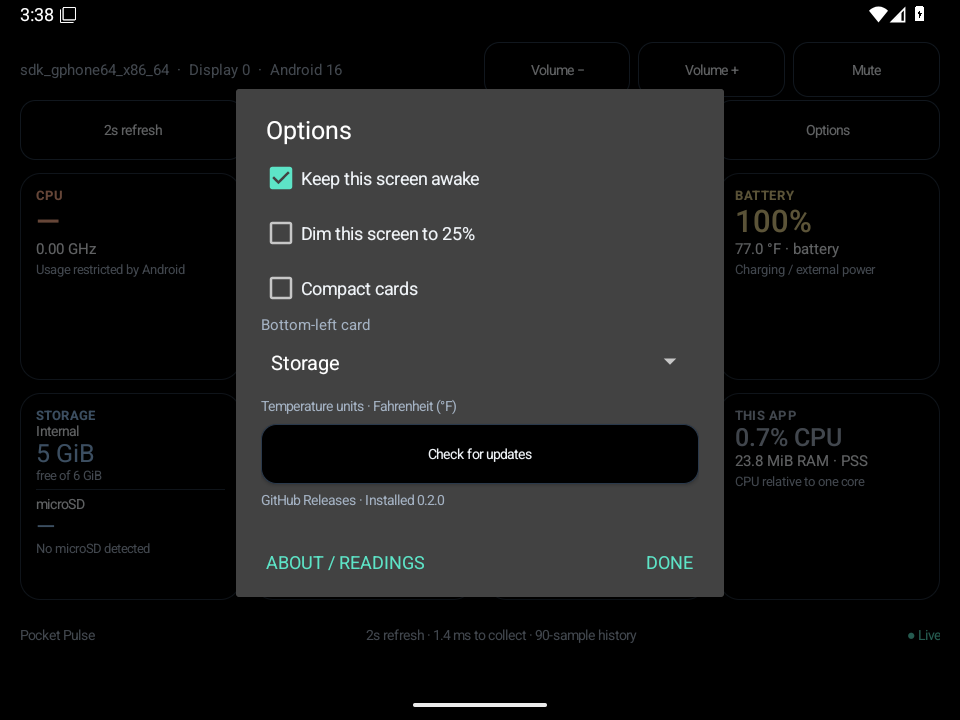
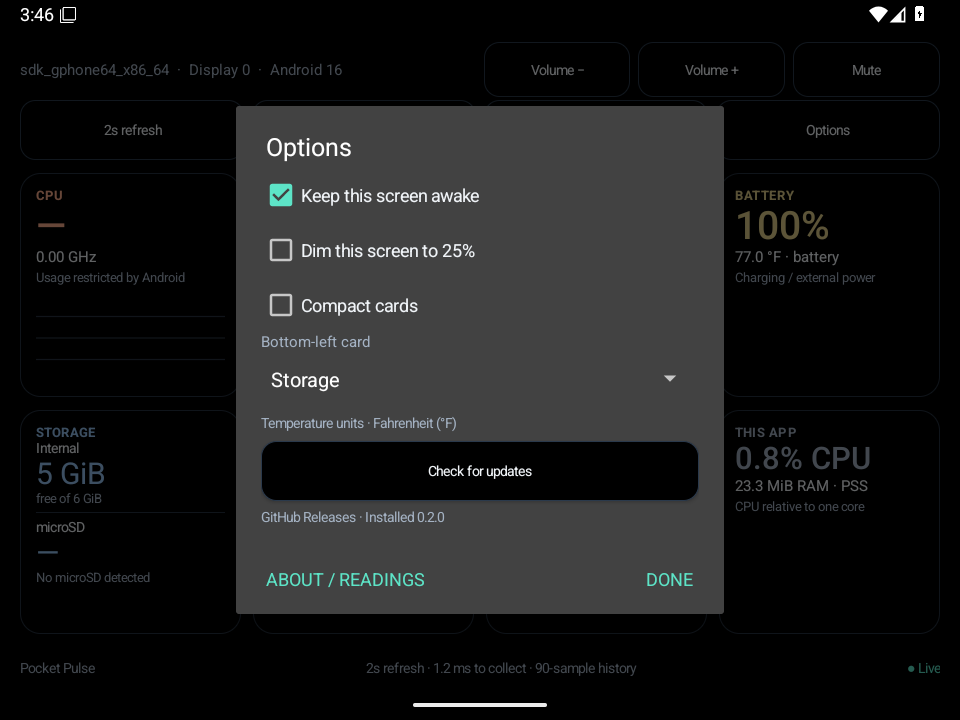
Record final passing compact-scroll validation

diff --git a/VALIDATION.md b/VALIDATION.md
@@ -13,11 +13,11 @@ Performed November 5, 2026 (America/Chicago). Physical handheld compatibility re
 
 ## Android runtime and layout checks
 
-[Successful GitHub verification run](https://github.com/TygerBDevTeam/pocket-pulse/actions/runs/42157272523) built the same app sources on Ubuntu and ran an accelerated Android 16 / API 36 x86_64 emulator. CI generates its own temporary test key; the public release APK is independently built/signed on Windows with the preserved private release key. No private release material is sent to CI.
+[Successful GitHub verification run](https://github.com/TygerBDevTeam/pocket-pulse/actions/runs/42158102193) built the same app sources on Ubuntu and ran an accelerated Android 16 / API 36 x86_64 emulator. CI generates its own temporary test key; the public release APK is independently built/signed on Windows with the preserved private release key. No private release material is sent to CI.
 
 - Installed and cold-launched successfully; eight-card dashboard and three volume controls found.
 - Inspected actual captures at **960 × 720, density 200 (4:3)** and **1240 × 1080, density 320 (Thor-shaped lower-screen window)**. Both landscape layouts fit all eight cards, with this app's usage at bottom right. Shorter layouts use compact cards and can hide charts.
-- Captured a 480 × 360 compact window, 720 × 960 portrait window and 1.3× font scale. The app provides a scrollable grid for constrained windows; physical touch/controller behavior still requires handheld testing.
+- Captured a 480 × 360 compact window, 720 × 960 portrait window and 1.3× font scale. Verified compact-window scrolling reaches the last card, then inspected the scrolled capture. Physical touch/controller behavior still requires handheld testing.
 - Verified pause/resume; zero app frames drawn during a five-second manual pause and during a five-second period hidden behind the launcher. This checks redraw behavior, not zero CPU cost.
 - Changed refresh 2 → 5 seconds; verified persistence through process restart; restored 2 seconds.
 - Verified single-display fallback and Options controls. Switched Storage → Thermal status, confirmed persistence after process restart, and restored Storage.
